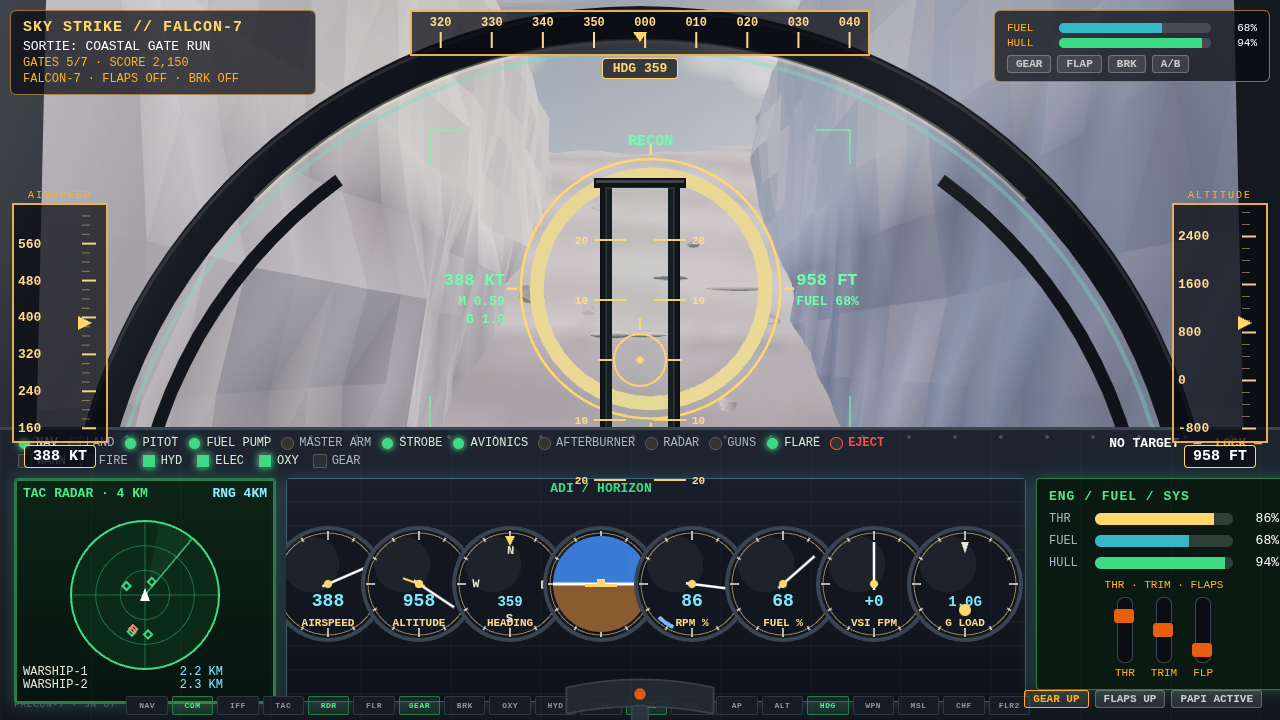
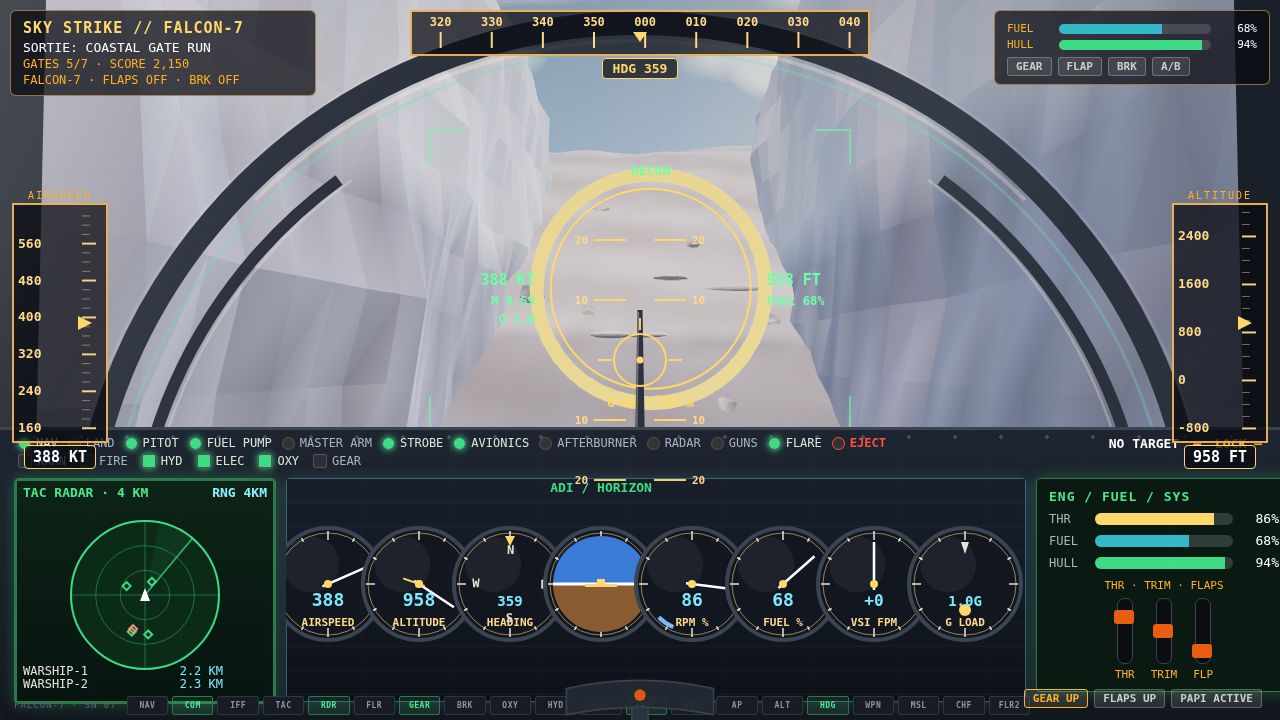
SKY STRIKE v4: cockpit ronde 4 — pintu dibongkar, langit biru, ring RECON ramping (shot 2)
Lyso menolak ronde 3 ('tetep gagal, kokpit hadehhh'): frame combiner
tengah membentuk persegi panjang hitam yang kebaca seperti pintu, langit
masih merah/mauve, ring RECON menumpuk di atas pilar.
- cockpit.js: hudFrame pintu DIHAPUS total; diganti SATU center post
  ramping (10px -> 5px, abu gelap #2b323d, highlight hangat di tepi)
  dari panel ke y 310 — garis tunggal, tidak ada lagi bentuk tertutup.
  Bow menipis 34 -> 24 dan jadi abu gelap; rail A-pillar tetap
  melengkung mengikuti bow + highlight tipis di tepi dalam.
- cockpit.js: ring RECON shot-2 saja (flag slimRecon, diset applyShot):
  radius cap 90 (dulu 200), tanpa tick mark, label lebih kecil.
- shots.js cockpitDuskSky: gradien langit kini decisively biru di semua
  stop (zenith 0x3f5c7e, mid 0x7d9cbd, horizon 0xb4c2d2); hangat hanya
  di disc + halo matahari di tepi kanan; key/hemi netral-dingin supaya
  salju tetap putih.
- Selftest 44/44 PASS. Shot 2 re-render + eye-check: pintu hilang,
  post kebaca sebagai strut tipis, langit biru-abu, dinding salju
  dipertahankan, panel bawah tidak berubah. Shot 1/3/4 tidak tersentuh.

diff --git a/game/src/cockpit.js b/game/src/cockpit.js
@@ -31,17 +31,25 @@ export class Cockpit {
     // each side gets an inner PILLAR rail (r 505) following the bow's
     // curve from the panel up to y 180 — the canopy frame reads as
     // pillars left + right, like the reference, not a lone thin arc.
+    // Ronde 4 (Lyso: ronde 3 "tetep gagal", pilar = pintu): the bow was
+    // still a 34px BLACK band and the side rails black — the whole frame
+    // read heavy and dead. Now dark GREY (#2b323d, never black), bow
+    // thinned to 24, rails 12 with a thin warm highlight on their inner
+    // edge, so the frame is a light grey outline that FRAMES the view
+    // instead of walling it off.
     const frame = document.createElement('div');
     frame.className = 'cockpit-frame';
     frame.innerHTML = `<svg viewBox="0 0 1280 720" preserveAspectRatio="none">
-      <path d="M0,0 L46,0 L30,720 L0,720 Z" fill="#14181f"/>
-      <path d="M1280,0 L1234,0 L1250,720 L1280,720 Z" fill="#14181f"/>
-      <path d="M 149,720 A 505,505 0 0 1 339,180" fill="none" stroke="#10141a" stroke-width="13"/>
-      <path d="M 1131,720 A 505,505 0 0 0 941,180" fill="none" stroke="#10141a" stroke-width="13"/>
-      <path class="canopy-arch" d="M 97,720 A 560,560 0 1 1 1183,720" fill="none" stroke="#10141a" stroke-width="34"/>
-      <path d="M 255,200 A 545,545 0 0 1 1025,200" fill="none" stroke="rgba(255,244,214,0.30)" stroke-width="5"/>
+      <path d="M0,0 L46,0 L30,720 L0,720 Z" fill="#1a2029"/>
+      <path d="M1280,0 L1234,0 L1250,720 L1280,720 Z" fill="#1a2029"/>
+      <path d="M 149,720 A 505,505 0 0 1 339,180" fill="none" stroke="#2b323d" stroke-width="12"/>
+      <path d="M 1131,720 A 505,505 0 0 0 941,180" fill="none" stroke="#2b323d" stroke-width="12"/>
+      <path d="M 162,720 A 497,497 0 0 1 352,180" fill="none" stroke="rgba(255,244,214,0.28)" stroke-width="2.5"/>
+      <path d="M 1118,720 A 497,497 0 0 0 928,180" fill="none" stroke="rgba(255,244,214,0.28)" stroke-width="2.5"/>
+      <path class="canopy-arch" d="M 97,720 A 560,560 0 1 1 1183,720" fill="none" stroke="#2b323d" stroke-width="24"/>
+      <path d="M 255,200 A 545,545 0 0 1 1025,200" fill="none" stroke="rgba(255,244,214,0.28)" stroke-width="4"/>
       <path d="M 81,720 A 575,575 0 1 1 1199,720" fill="none" stroke="rgba(255,255,255,0.10)" stroke-width="3"/>
-      <path d="M 121,720 A 536,536 0 1 1 1159,720" fill="none" stroke="rgba(120,220,190,0.38)" stroke-width="4"/>
+      <path d="M 121,720 A 536,536 0 1 1 1159,720" fill="none" stroke="rgba(120,220,190,0.30)" stroke-width="3"/>
     </svg>`;
     root.appendChild(frame);
 
@@ -59,28 +67,21 @@ export class Cockpit {
     this.hudGlass.height = 720;
     root.appendChild(this.hudGlass);
 
-    // Ronde 3 (ref-cockpit-clouds): the CENTRE PILLAR — the HUD combiner
-    // frame standing in the middle of the windscreen, like the reference:
-    // two slim vertical posts + a top crossbar, landing on the panel,
-    // with a faint combiner glass between them. It sits ABOVE the HUD
-    // canvas (a physical frame occludes the projected symbology), but
-    // the posts (x 600-612 / 668-680) pass through the RECON ring's
-    // interior without crossing the ring itself, so the ring, the
-    // 388 KT / 958 FT flanks and the RECON label all stay readable.
-    // (Fix after the first render: the crossbar sat at y 142 and clipped
-    // the bottom of the RECON glyphs — the frame top is now y 178, well
-    // below the label, and the posts start at y 185 so the ring's top
-    // arc passes above them.)
-    // Inline styles only — the cockpit CSS lives in index.html, which
-    // is outside this round's file boundary.
+    // Ronde 4 (ref-cockpit-clouds, Lyso: ronde 3 "tetep gagal, kokpit
+    // hadehhh"): the tall combiner frame is GONE — two 12px posts + a
+    // crossbar formed a closed black rectangle that read as a DOOR, the
+    // single worst failure of ronde 3. What remains is ONE slim tapered
+    // CENTER POST: 10 px at the panel narrowing to 5 px at the top,
+    // dark grey (never black), a warm highlight on its sunlit edge,
+    // rising from the panel (y 448) to y 310. A single line, no closed
+    // shape anywhere: it reads as a canopy strut, and the projected
+    // RECON ring passes behind it like symbology on glass.
+    this.slimRecon = false; // shot 2 only: small RECON ring, set by applyShot
     this.hudFrame = document.createElement('div');
     this.hudFrame.style.cssText = 'position:absolute;inset:0;pointer-events:none;';
     this.hudFrame.innerHTML = `<svg viewBox="0 0 1280 720" preserveAspectRatio="none" style="width:100%;height:100%;display:block">
-      <rect x="600" y="185" width="12" height="285" fill="#10141a"/>
-      <rect x="668" y="185" width="12" height="285" fill="#10141a"/>
-      <rect x="594" y="178" width="92" height="10" fill="#10141a"/>
-      <rect x="596" y="180" width="88" height="3" fill="rgba(255,244,214,0.22)"/>
-      <rect x="606" y="188" width="68" height="278" fill="rgba(140,220,180,0.05)" stroke="rgba(140,220,180,0.28)" stroke-width="1"/>
+      <path d="M 635,448 L 645,448 L 642.5,310 L 637.5,310 Z" fill="#2b323d"/>
+      <path d="M 636.5,446 L 638.5,312" fill="none" stroke="rgba(255,244,214,0.35)" stroke-width="1.5"/>
     </svg>`;
     root.appendChild(this.hudFrame);
 
@@ -612,35 +613,42 @@ export class Cockpit {
         const sy = (-v.y * 0.5 + 0.5) * H;
         const dist = camera.position.distanceTo(nextGate);
         if (dist > 50 && sx > 110 && sx < W - 110 && sy > 70 && sy < 460) {
-          const ringR = Math.min(200, (30 / dist) * (H / 2) / Math.tan(THREE.MathUtils.degToRad(camera.fov / 2)));
-          const rr = ringR + 16;
-          x.strokeStyle = '#ffd76a'; x.lineWidth = 2.5;
+          // Ronde 4 (shot 2 only, this.slimRecon): the big ring + ticks
+          // crowded the centre post and read as clutter around the
+          // "door". Slim: radius capped at 90, no tick marks, smaller
+          // labels — the ring marks the gate without owning the frame.
+          const ringCap = this.slimRecon ? 90 : 200;
+          const ringR = Math.min(ringCap, (30 / dist) * (H / 2) / Math.tan(THREE.MathUtils.degToRad(camera.fov / 2)));
+          const rr = ringR + (this.slimRecon ? 10 : 16);
+          x.strokeStyle = '#ffd76a'; x.lineWidth = this.slimRecon ? 2 : 2.5;
           x.beginPath(); x.arc(sx, sy, rr, 0, Math.PI * 2); x.stroke();
-          x.beginPath();
-          for (const [dx, dy] of [[0, -1], [0, 1], [-1, 0], [1, 0]]) {
-            x.moveTo(sx + dx * (rr + 4), sy + dy * (rr + 4));
-            x.lineTo(sx + dx * (rr + 14), sy + dy * (rr + 14));
+          if (!this.slimRecon) {
+            x.beginPath();
+            for (const [dx, dy] of [[0, -1], [0, 1], [-1, 0], [1, 0]]) {
+              x.moveTo(sx + dx * (rr + 4), sy + dy * (rr + 4));
+              x.lineTo(sx + dx * (rr + 14), sy + dy * (rr + 14));
+            }
+            x.stroke();
           }
-          x.stroke();
           const gateLabel = runner.nextGate < runner.gates.length
             ? `G-${String(runner.nextGate + 1).padStart(2, '0')}` : 'GATE';
           const mach = flight.speedKt / 661.7;
           x.textAlign = 'center';
-          x.font = 'bold 15px monospace'; x.fillStyle = '#6effaa';
+          x.font = this.slimRecon ? 'bold 13px monospace' : 'bold 15px monospace'; x.fillStyle = '#6effaa';
           x.fillText('RECON', sx, sy - rr - 14);
-          x.font = 'bold 13px monospace'; x.fillStyle = '#ffd76a';
+          x.font = this.slimRecon ? 'bold 12px monospace' : 'bold 13px monospace'; x.fillStyle = '#ffd76a';
           x.fillText(`${gateLabel} · ${Math.round(dist)} m`, sx, sy + rr + 18);
           // flank readouts, reference layout: speed left, altitude right
-          x.font = 'bold 17px monospace'; x.fillStyle = '#6effaa';
+          x.font = this.slimRecon ? 'bold 15px monospace' : 'bold 17px monospace'; x.fillStyle = '#6effaa';
           x.textAlign = 'right';
           x.fillText(`${Math.round(flight.speedKt)} KT`, sx - rr - 16, sy - 4);
-          x.font = 'bold 13px monospace';
+          x.font = this.slimRecon ? 'bold 12px monospace' : 'bold 13px monospace';
           x.fillText(`M ${mach.toFixed(2)}`, sx - rr - 16, sy + 16);
           x.fillText(`G ${flight.g.toFixed(1)}`, sx - rr - 16, sy + 34);
           x.textAlign = 'left';
-          x.font = 'bold 17px monospace';
+          x.font = this.slimRecon ? 'bold 15px monospace' : 'bold 17px monospace';
           x.fillText(`${Math.round(flight.altMslFt)} FT`, sx + rr + 16, sy - 4);
-          x.font = 'bold 13px monospace';
+          x.font = this.slimRecon ? 'bold 12px monospace' : 'bold 13px monospace';
           x.fillText(`FUEL ${Math.round(flight.fuel)}%`, sx + rr + 16, sy + 16);
         }
       }

diff --git a/game/src/shots.js b/game/src/shots.js
@@ -60,25 +60,25 @@ function duskLook(game) {
   game.lightning.auto = false;
 }
 
-// Ronde 3 (cockpit, ref-cockpit-round): BLUE-GREY DUSK SKY, shot-2
-// only. duskLook's golden palette turns the whole top of the frame RED
-// (orange horizon + pink mid + violet zenith + orange fog), but the
-// reference sky is blue-grey dusk with only a pale warm glow at the sun.
-// Override the dome uniforms, fog, key, hemi and cloud tint AFTER
-// duskLook, so the sun stays ahead-right low (the reference's sun at the
-// right edge) while the sky itself reads slate blue-grey. Called only
-// from the cockpit shot.
+// Ronde 4 (cockpit, Lyso: ronde 3 "tetep gagal", langit masih merah):
+// ronde 3's blue-grey override was still too warm — the horizon was a
+// warm taupe (0xcdbca6) and the mid a grey (0x93a3b8), so the whole
+// visible sky band read pale mauve/warm grey. Now the gradient is
+// decisively BLUE at every stop (deep slate zenith, clear blue mid,
+// cool pale-blue horizon) with the warm sun colour kept ONLY in the
+// sun disc + halo at the right edge, like the reference. Key + hemi
+// go neutral-cool so the snow walls stay white, not tan.
 function cockpitDuskSky(game) {
   const u = game.sky.uniforms;
-  u.uZenith.value.setHex(0x54627a);   // slate blue-grey zenith
-  u.uMid.value.setHex(0x93a3b8);      // pale blue-grey mid band
-  u.uHorizon.value.setHex(0xcdbca6);  // pale warm taupe at the horizon (sun glow only)
-  u.uSunColor.value.setHex(0xffe6bb); // paler sun halo
+  u.uZenith.value.setHex(0x3f5c7e);   // deep slate blue zenith
+  u.uMid.value.setHex(0x7d9cbd);      // clear blue mid band
+  u.uHorizon.value.setHex(0xb4c2d2);  // cool pale blue-grey horizon
+  u.uSunColor.value.setHex(0xffe6bb); // warm halo ONLY at the sun (right edge)
   u.uSunCore.value.setHex(0xfff9e2);
-  if (game.scene.fog) game.scene.fog.color.setHex(0x9fb0c4); // blue-grey fog, not orange
-  game.sky.key.color.setHex(0xfff3e0); // near-neutral pale key: snow reads white, not tan
-  game.sky.hemi.color.setHex(0x9db4d8);
-  game.sky.hemi.groundColor.setHex(0x707880);
+  if (game.scene.fog) game.scene.fog.color.setHex(0xa8bdd2); // cool blue-grey fog
+  game.sky.key.color.setHex(0xf2f6ff); // neutral-cool key: snow reads white
+  game.sky.hemi.color.setHex(0xa8c0e0);
+  game.sky.hemi.groundColor.setHex(0x6a7684);
   game.sky.hemi.intensity = 0.95;
   game.clouds.tint(0xe9eff5, 0xbcc9d8); // pale blue-grey clouds, not warm
 }
@@ -354,7 +354,7 @@ export const SHOTS = {
   cockpit(game) {
     game.setMission(1, { silent: true });
     duskLook(game);
-    cockpitDuskSky(game); // ronde 3: blue-grey dusk sky, not red
+    cockpitDuskSky(game); // ronde 4: decisively blue dusk sky, not warm/mauve
     // gate G-06 (index 5) is the ring in the windscreen: the plane sits
     // 160 m south of it, 20 m below its centre, so the ring reads big
     // (~250 px) and centred under the bow, FPV low inside it. G-06, not
@@ -420,7 +420,7 @@ export const SHOTS = {
     // recomputed from the chest after the group moves.
     const kaiju = game.missiles.targetById('KAIJU-1');
     kaiju.group.position.set(-380, 2, 1560);
-    kaiju.group.rotation.y = -1.0; // faces west-southwest toward ULTRA-1 AND the camera (was -1.26: jaw faced away, cyan unreadable)
+    kaiju.group.rotation.y = -0.7; // RONDE 5: -1.0 -> -0.7 — the mouth face was edge-on to the camera, foreshortening the jaw; -0.7 turns the face near-frontal while still facing west toward ULTRA-1
     kaiju.group.updateMatrixWorld(true);
     kaiju.pos.copy(kaiju.group.localToWorld(KAIJU_CHEST_LOCAL.clone())).add(new THREE.Vector3(0, 0, 18));
     const ultra = game.missiles.ultra;
@@ -500,11 +500,13 @@ export const SHOTS = {
     // between them
     game.setCameraMode('chase', { side: 0.3, dist: 45, height: 10 });
     game.hud.setMission(game.runner.mission, game.flight);
-    game.hud.showToast('ULTRA-1 — GUARDIAN OF LIGHT · ENERGY BLADE', 4000);
+    // RONDE 5: the ULTRA-1 toast is REMOVED — it ran horizontally
+    // across the frame and covered the kaiju's head. The boss bar at
+    // the top already names ULTRA-1, so nothing is lost.
     // burning wreck smoke + fire over the two warships
     addSmokeFire(game, [[-530, 1600], [-300, 1610]]);
     // re-assert the face-off rotations last (staging above must not move them)
-    kaiju.group.rotation.y = -1.0;
+    kaiju.group.rotation.y = -0.7; // RONDE 5, see above
     ultra.group.rotation.y = 1.0;
   },
 
@@ -543,6 +545,10 @@ export const SHOTS = {
 export function applyShot(name, game) {
   const fn = SHOTS[name];
   if (!fn) return false;
+  // Ronde 4: the cockpit shot uses the slim RECON ring (small, no ticks)
+  // so it never crowds the centre post again; every other shot keeps
+  // the full ring. Reset here so gameplay cockpit mode is unaffected.
+  if (game.cockpit) game.cockpit.slimRecon = name === 'cockpit';
   fn(game);
   game.shotMode = true;
   game.shotName = name;
